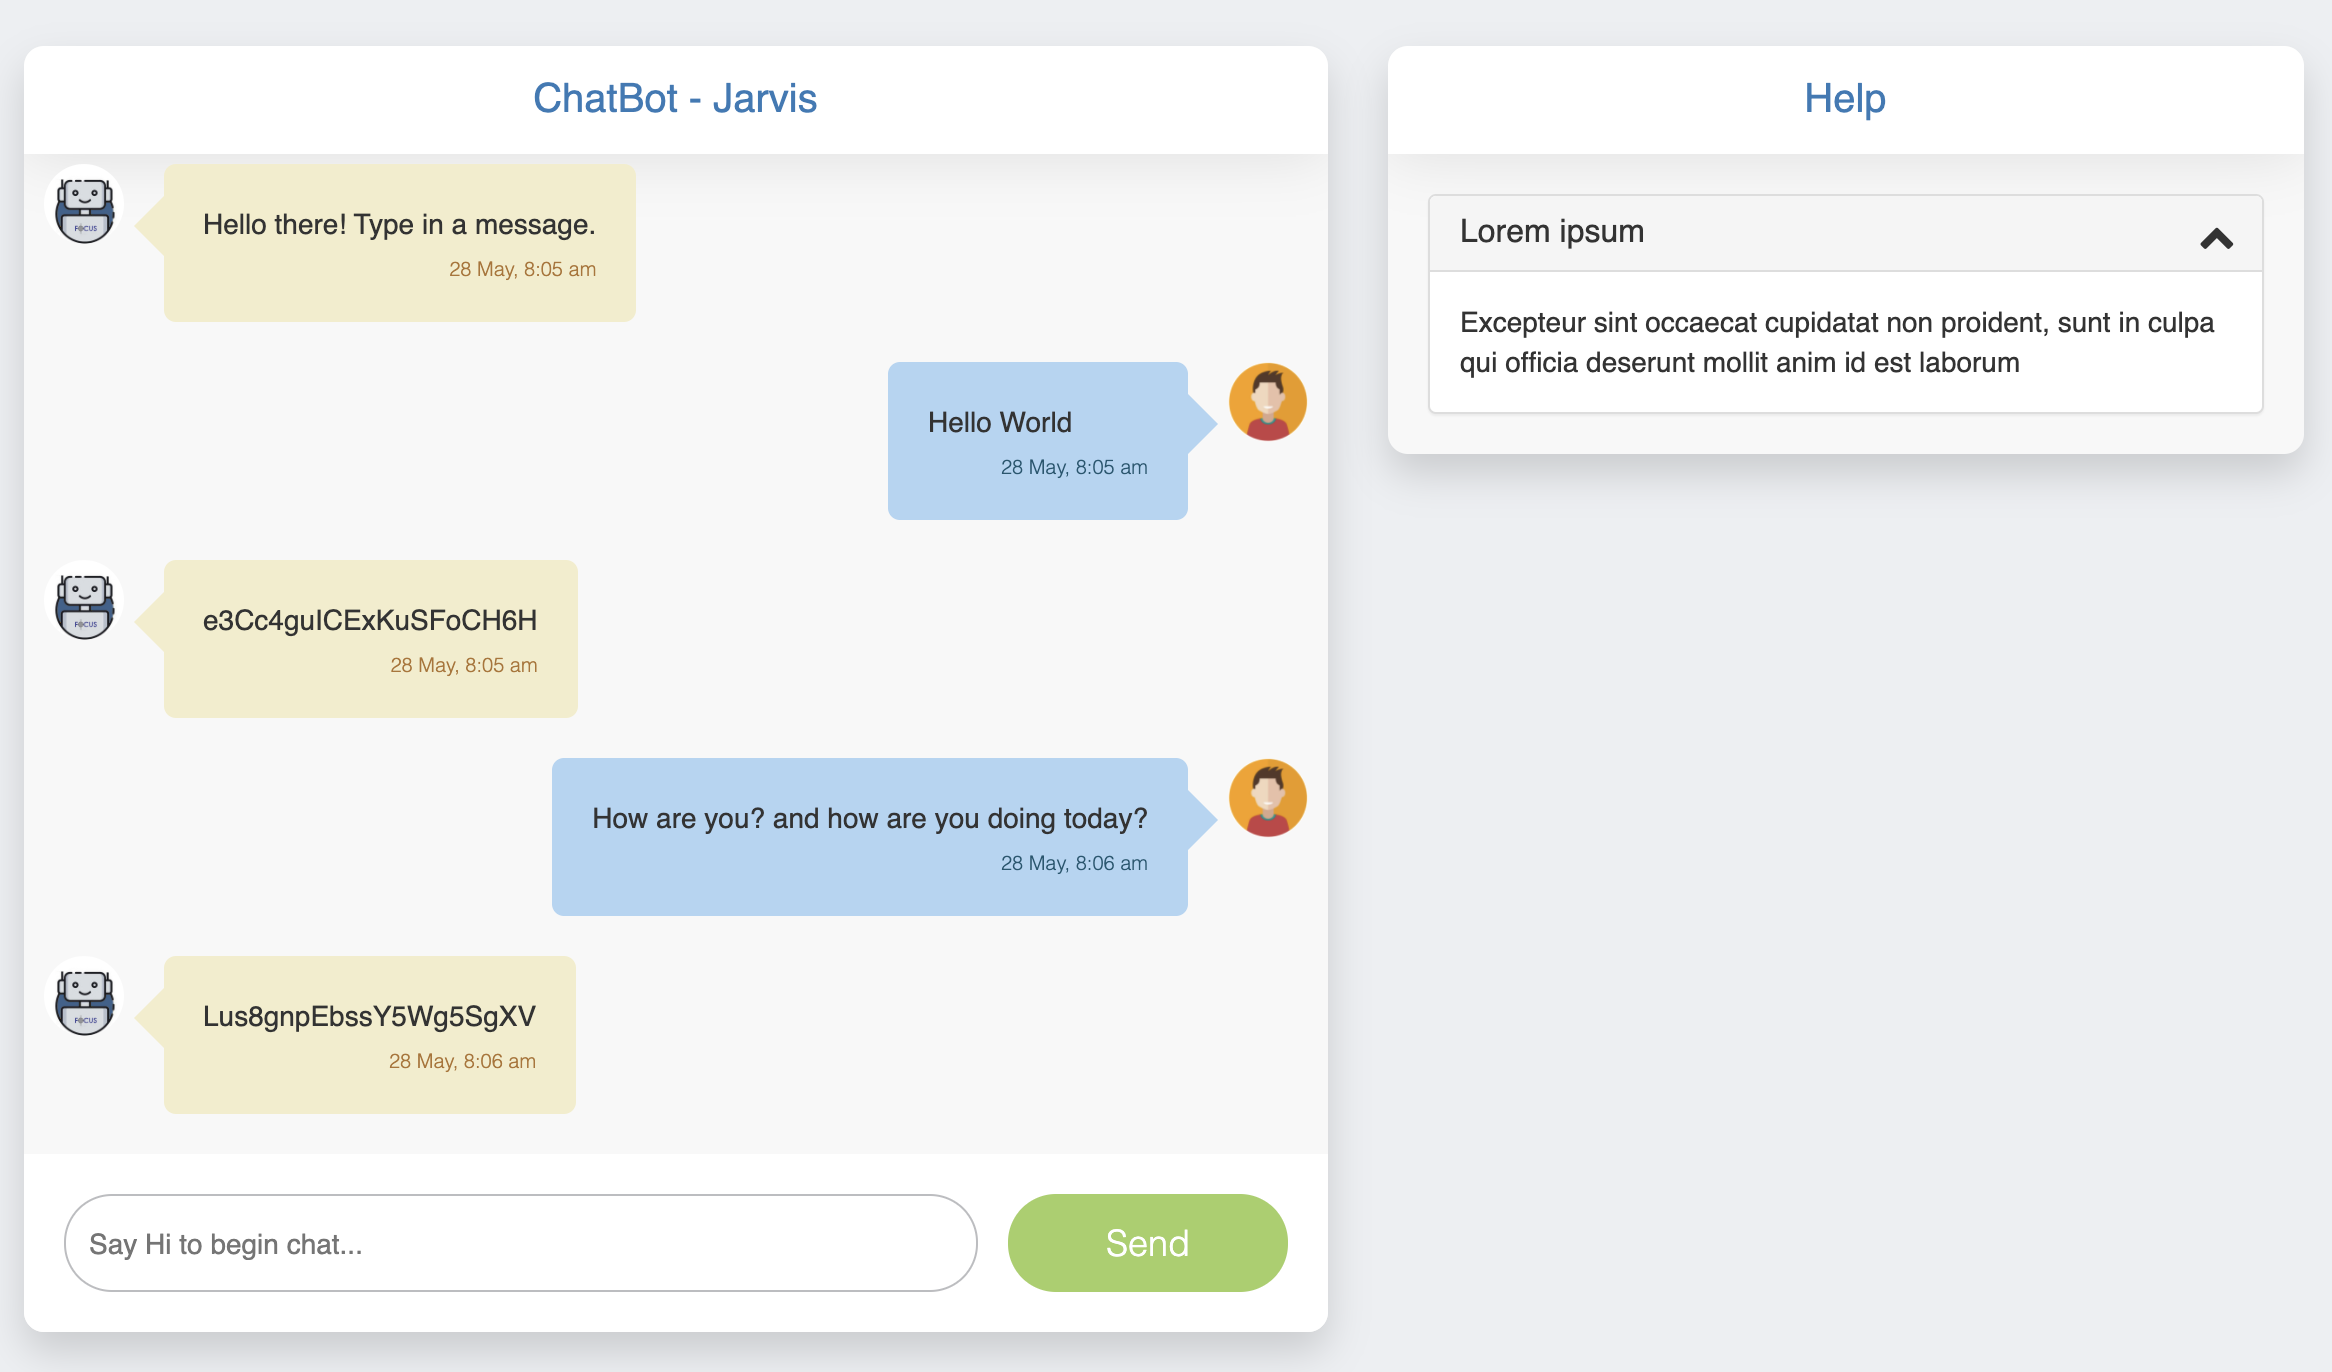
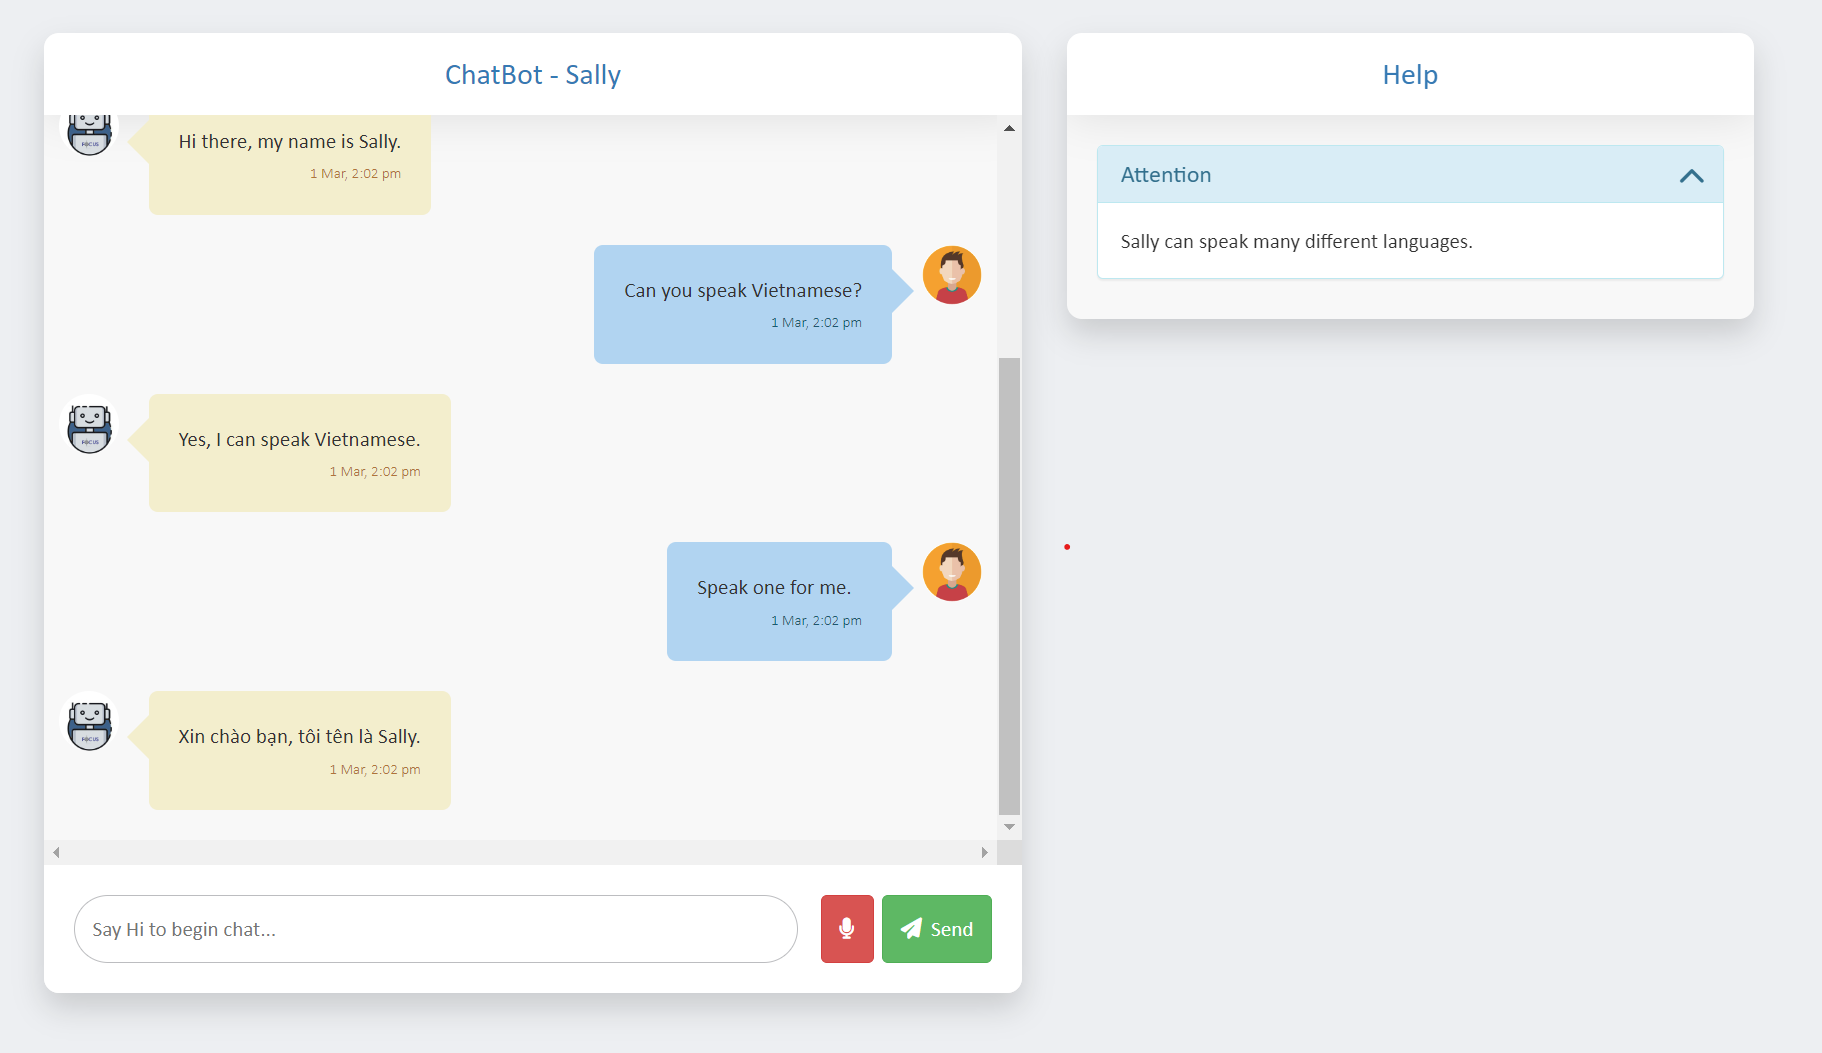
add speech and record function

diff --git a/static/main.js b/static/main.js
@@ -1,3 +1,20 @@
+// Language
+const recogLang = "en-US";
+const synthVoice = "Microsoft Zira - English (United States)";
+// const recogLang = "vi-VN";
+// const synthVoice = "Microsoft HoaiMy Online (Natural) - Vietnamese (Vietnam)";
+
+// Speech
+const synth = window.speechSynthesis;
+
+function readBotMessage(msg) {
+    const utter = new SpeechSynthesisUtterance(msg);
+    for (let voice of synth.getVoices()) {
+        if (voice.name === synthVoice) utter.voice = voice;
+    }
+    synth.speak(utter);
+}
+
 /**
  * Returns the current datetime for the message creation.
  */
@@ -55,6 +72,7 @@ function showUserMessage(message, datetime) {
  * Displays the chatbot message on the chat screen. This is the left side message.
  */
 function showBotMessage(message, datetime) {
+    readBotMessage(message);
 	renderMessageToScreen({
 		text: message,
 		time: datetime,
@@ -66,24 +84,23 @@ function showBotMessage(message, datetime) {
  * Get input from user and show it on screen on button click or Enter pressed
  */
 $('#send_button').on('click', (e) => {
-    sendUserMessage();
+    const msg = $('#msg_input').val();
+    sendUserMessage(msg);
 });
 $('#msg_input').on('keyup', (e) => {
     if (e.key === 'Enter' || e.keyCode === 13) {
-        sendUserMessage();
+        const msg = $('#msg_input').val();
+        sendUserMessage(msg);
     }
 })
 
 // Get input from user and show it on screen if not empty.
-async function sendUserMessage() {
-    const msg = $('#msg_input').val();
-
+async function sendUserMessage(msg) {
     // Do nothing if input is empty
     if (msg == "") return;
 
     // Show messages and reset input
     var history = $('#messages').text();
-    console.log(history);
     $('#msg_input').val('');
     showUserMessage(msg);
     history += 'User: ' + msg + '\n';
@@ -112,3 +129,40 @@ async function getBotMessage(input) {
 $(window).on('load', function () {
 	showBotMessage('Hello there! I am here for help');
 });
+
+
+// Speech recognition
+const recog = new webkitSpeechRecognition();
+const micBtn = document.querySelector("#micBtn");
+const micErrorInfo = document.querySelector("#mic_error")
+recog.continuous = false;
+recog.lang = 'en-US';
+
+recog.onstart = () => {
+    micBtn.classList.toggle("btn-danger");
+    micBtn.classList.toggle("btn-secondary");
+    micBtn.classList.toggle("disabled");
+    micErrorInfo.classList.remove("show");
+}
+
+recog.onerror = () => {
+    micBtn.classList.toggle("btn-danger");
+    micBtn.classList.toggle("btn-secondary");
+    micBtn.classList.toggle("disabled");
+    micErrorInfo.classList.add("show");
+    console.log('error');
+}
+
+recog.onresult = (e) => {
+    const ind = e.resultIndex;
+    const text = e.results[ind][0].transcript;
+    micBtn.classList.toggle("btn-danger");
+    micBtn.classList.toggle("btn-secondary");
+    micBtn.classList.toggle("disabled");
+    console.log(text);
+    sendUserMessage(text);
+}
+
+micBtn.onclick = (e) => {
+    recog.start();
+}

diff --git a/templates/index.html b/templates/index.html
@@ -16,6 +16,7 @@
 	<link href="https://fonts.googleapis.com/css?family=Josefin+Sans:300|Open+Sans:300|Oxygen|Material+Icons"
 		rel="stylesheet">
 	<link rel="stylesheet" href="https://maxcdn.bootstrapcdn.com/bootstrap/3.3.6/css/bootstrap.min.css">
+    <link rel="stylesheet" href="https://cdnjs.cloudflare.com/ajax/libs/font-awesome/6.3.0/css/all.min.css">
 
 	<!-- custom css -->
 	<link rel="stylesheet" type="text/css" href="{{ url_for('static', filename='main.css') }}">
@@ -23,7 +24,6 @@
 </head>
 
 <body>
-
 	<div class="container">
 
 		<div class="row padded_row">
@@ -41,9 +41,15 @@
 					<ul class="messages"></ul>
 
 					<!-- input -->
-					<div class="bottom_wrapper">
+					<div class="bottom_wrapper mb-3">
 						<input id="msg_input" placeholder="Say Hi to begin chat..." />
-						<div id="send_button" class="app_button_1">Send</div>
+						<button id="micBtn"  class="btn btn-danger app_button_2">
+                            <i class="fa-solid fa-microphone"></i>
+                        </button>
+						<button id="send_button" class="btn btn-success">
+                            <i class="fa-solid fa-paper-plane icon"></i>
+                            Send
+                        </button>
 					</div>
 
 				</div>
@@ -59,19 +65,32 @@
 					</div>
 
 					<!-- help container -->
-					<div class="panel-group" id="accordion">
+					<div class="panel-group">
 
 						<!-- help - 1 -->
-						<div class="panel panel-default">
+						<div class="panel panel-info">
 							<div class="panel-heading">
-								<h4 class="panel-title">
-									<a class="accordion-toggle" data-toggle="collapse" data-parent="#accordion"
-										href="#collapse1">Attention</a>
+								<h4 class="panel-title" data-toggle="collapse" data-target="#collapse1">
+									Attention
 								</h4>
 							</div>
 							<div id="collapse1" class="panel-collapse collapse in">
 								<div class="panel-body">
 									Sally can speak many different languages.
+								</div>
+							</div>
+						</div>
+
+						<!-- Mic error -->
+						<div id="mic_error" class="panel panel-danger mic-error">
+							<div class="panel-heading">
+								<h4 class="panel-title" data-toggle="collapse" data-target="#collapse2">
+									Mic error
+								</h4>
+							</div>
+							<div id="collapse2" class="panel-collapse collapse in">
+								<div class="panel-body">
+									Sorry, our bot can't hear you.
 								</div>
 							</div>
 						</div>

diff --git a/static/main.css b/static/main.css
@@ -179,6 +179,13 @@ body {
 	text-align: center;
 }
 
+.app_button_2 {
+	margin-right: 5px;
+}
+.icon {
+    margin-right: 3px
+}
+
 /* faq section | right side */
 /* ---------------------------------------------------------------------- */
 
@@ -207,4 +214,20 @@ body {
 	-ms-transform: rotate(90deg);
 	-o-transform: rotate(90deg);
 	transform: rotate(90deg);
+}
+
+#mic_error {
+    max-height: 0;
+    overflow: hidden;
+    visibility: hidden;
+    -webkit-transition: all 1s ease-in-out;
+    -moz-transition: all 1s ease-in-out;
+    -o-transition: all 1s ease-in-out;
+    transition: all 1s ease-in-out;
+}
+
+#mic_error.show {
+    visibility: visible;
+    max-height: 7em;
+    overflow: auto;
 }

diff --git a/README.md b/README.md
@@ -1,6 +1,6 @@
-# OpenAI API Quickstart - Python example app
+# Chatbot Sally - Friendly simple ChatGPT app
 
-This is an example pet name generator app used in the OpenAI API [quickstart tutorial](https://beta.openai.com/docs/quickstart). It uses the [Flask](https://flask.palletsprojects.com/en/2.0.x/) web framework. Check out the tutorial or follow the instructions below to get set up.
+This is an example chatbot app base from the OpenAI API [quickstart tutorial](https://beta.openai.com/docs/quickstart). It uses the [Flask](https://flask.palletsprojects.com/en/2.0.x/) web framework. Chatbot can talk and reply to speech from user.
 
 ## Setup
 
@@ -11,14 +11,14 @@ This is an example pet name generator app used in the OpenAI API [quickstart tut
 3. Navigate into the project directory
 
    ```bash
-   $ cd openai-quickstart-python
+   $ cd wechatbot
    ```
 
 4. Create a new virtual environment
 
    ```bash
-   $ python -m venv venv
-   $ . venv/bin/activate
+   $ python -m venv env
+   $ . env/bin/activate
    ```
 
 5. Install the requirements
@@ -35,10 +35,16 @@ This is an example pet name generator app used in the OpenAI API [quickstart tut
 
 7. Add your [API key](https://beta.openai.com/account/api-keys) to the newly created `.env` file
 
-8. Run the app
+8. Addition config for Recognition Language and Synthesis Voices can find in `main.js`
+
+![config](static/img/language_config.png)
+
+9. Run the app
 
    ```bash
    $ flask run
    ```
 
-You should now be able to access the app at [http://localhost:5000](http://localhost:5000)! For the full context behind this example app, check out the [tutorial](https://beta.openai.com/docs/quickstart).
+![demo](static/img/demo.png)
+
+You should now be able to access the app at [http://localhost:5000](http://localhost:5000)! For the full context behind this Python example app, check out the OpenAI [tutorial](https://beta.openai.com/docs/quickstart).
